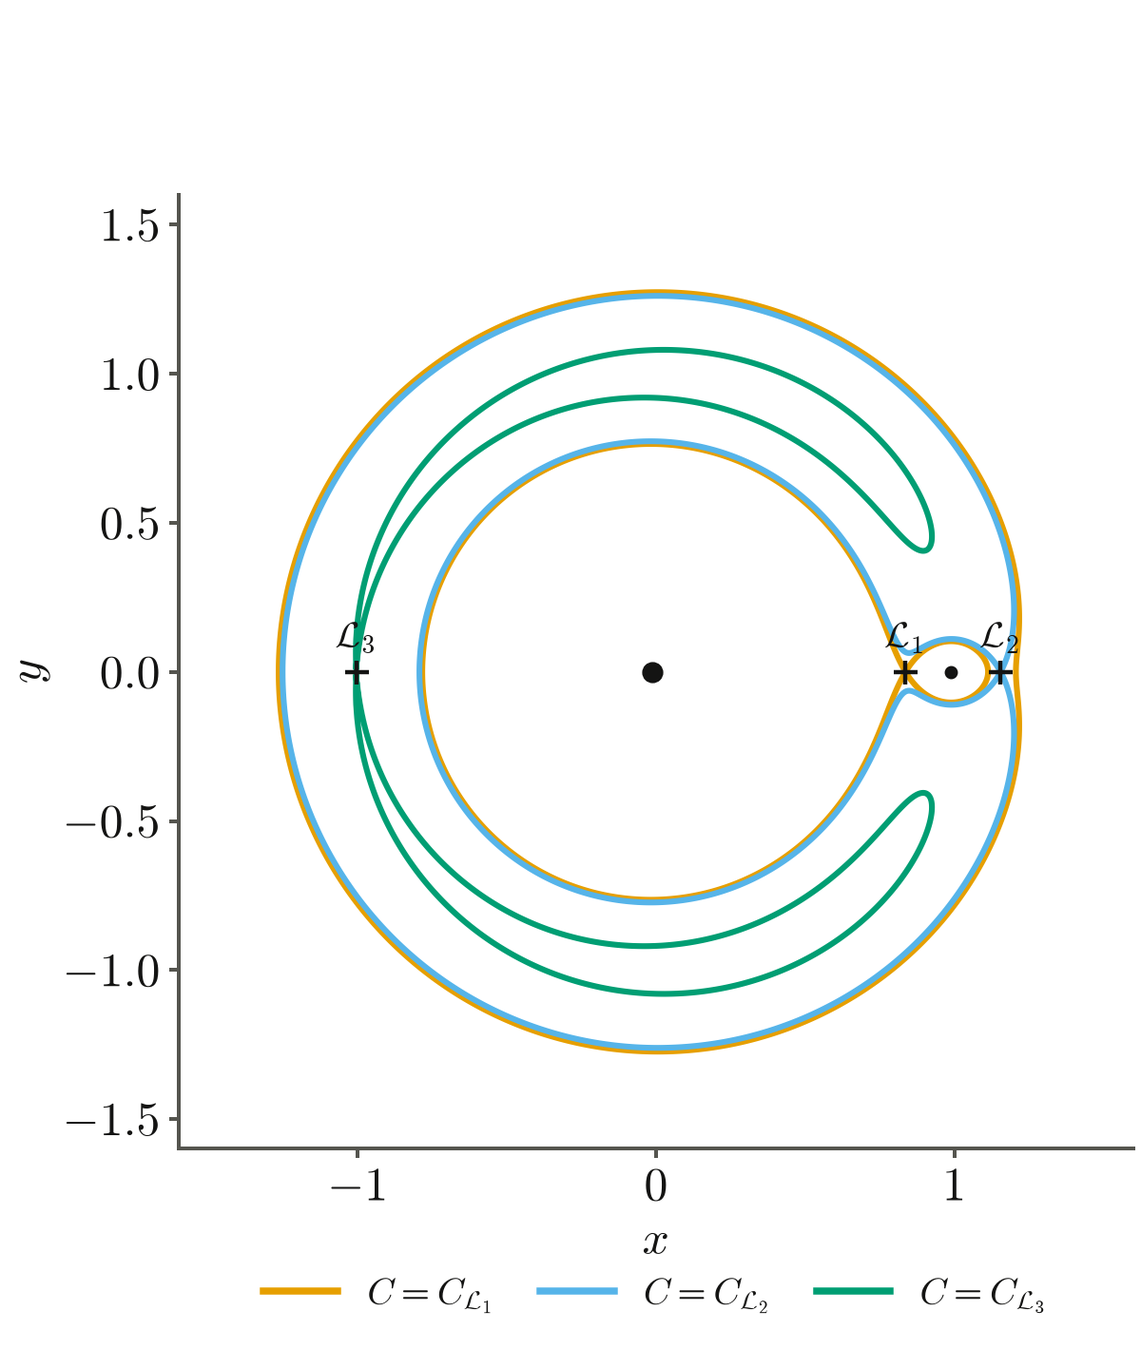
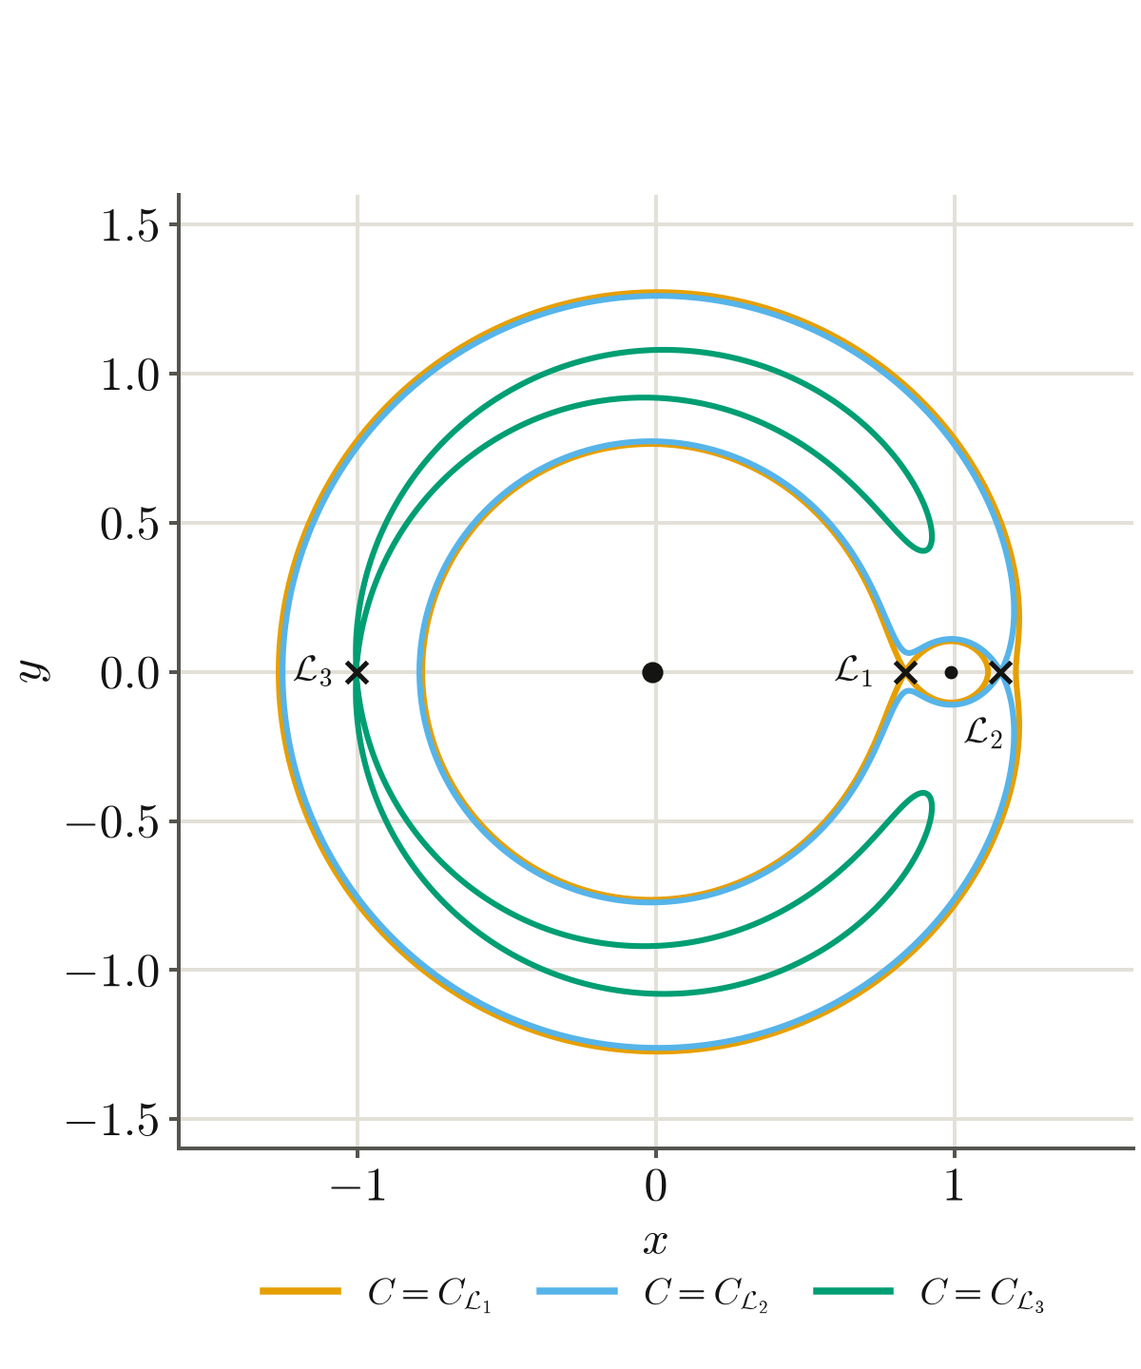
fix the demo deck content and the CI failures, and add blue and red tones and a surface camera carried across slides
Slide 4 writes the effective potential as U tilde, with the minus signs of the negative potential. The figure of slide 5 marks the Lagrange points with x, sets their labels off the zero-velocity curves, and has a grid. The list items of slides 5 and 9 are revealed one at a time. The summed surface of slide 8 is drawn in Magma_r without its darkest 30 %, after the MAE 541 plotly figure, so its top stays purple on a dark slide.

The plot tests run without reduced motion, the backdrop pixel tests allow for the software rasterizer of the Linux and Windows runners, the editor test no longer doubles the carriage returns of a Windows checkout and accepts a step in the hash, and the macOS runners draw WebGL in SwiftShader.

From the bifurcation talk, data-tone takes blue and red with the tokens --blue and --red, and a surface takes the camera of a matching surface on the slide before.

diff --git a/theme/beeson.js b/theme/beeson.js
@@ -2695,7 +2695,8 @@
   // src/surfaces.ts
   var RAMPS = {
     blues: ["#f7fbff", "#deebf7", "#c6dbef", "#9ecae1", "#6baed6", "#4292c6", "#2171b5", "#08519c", "#08306b"],
-    reds: ["#fff5f0", "#fee0d2", "#fcbba1", "#fc9272", "#fb6a4a", "#ef3b2c", "#cb181d", "#a50f15", "#67000d"]
+    reds: ["#fff5f0", "#fee0d2", "#fcbba1", "#fc9272", "#fb6a4a", "#ef3b2c", "#cb181d", "#a50f15", "#67000d"],
+    magma_r: ["#fcfdbf", "#fdda9c", "#feb67c", "#fc9065", "#f56b5c", "#e24d66", "#c43c75", "#a3307e", "#832681", "#641a80"]
   };
   var num2 = (value, fallback) => value !== void 0 && value.trim() !== "" && Number.isFinite(Number(value)) ? Number(value) : fallback;
   function effectivePotential(mu) {
@@ -2732,6 +2733,7 @@
   }
   var GRAVITATIONAL = { ramp: "blues", range: [-3, -1.5] };
   var CENTRIFUGAL = { ramp: "reds", range: [-3, -1.5] };
+  var EFFECTIVE = { ramp: "magma_r", range: [-3, -1.5] };
   var BOWL_LIFT = 4;
   var FUNCTIONS = {
     // the effective potential of the CR3BP at data-mu, assembled from its wells and its bowl, with the
@@ -2752,7 +2754,7 @@
         floor: -3.2,
         zscale: 1,
         layers: { flat: () => 0, wells, bowl, sum },
-        tones: { flat: GRAVITATIONAL, wells: GRAVITATIONAL, bowl: CENTRIFUGAL, sum: { ramp: "theme" } },
+        tones: { flat: GRAVITATIONAL, wells: GRAVITATIONAL, bowl: CENTRIFUGAL, sum: EFFECTIVE },
         marks,
         initial: "flat",
         stages: {
@@ -3629,6 +3631,12 @@ void main() {
         s.tone = 1;
       }
     }
+    /** Takes the azimuth, the elevation, and the pause after a drag of the camera of other. */
+    follow(other) {
+      this.azimuth = other.azimuth;
+      this.elevation = other.elevation;
+      this.resume = other.resume;
+    }
     /** Starts the turning of the camera and the animation of a change of stage, while the slide is shown. */
     start() {
       this.active = true;
@@ -3664,6 +3672,7 @@ void main() {
   }
 
   // src/steps.ts
+  var TONES2 = ["accent", "violet", "blue", "red"];
   function resolve(steps, current) {
     const indices = [...new Set(steps.map((s) => s.index))].sort((a, b) => a - b);
     const lit = /* @__PURE__ */ new Map();
@@ -3710,7 +3719,7 @@ void main() {
         visible: f.classList.contains("visible"),
         keep: keep === null ? null : keep.trim() === "" ? "next" : Number(keep),
         highlight: words2(f.dataset.highlight),
-        tone: f.dataset.tone === "violet" ? "violet" : "accent",
+        tone: TONES2.find((t) => t !== "accent" && t === f.dataset.tone) ?? "accent",
         holds: names.filter((name) => f.matches(select2(name)) || f.querySelector(select2(name)))
       };
     });
@@ -3721,8 +3730,7 @@ void main() {
     for (const name of names) for (const el of slide.querySelectorAll(select2(name))) tones.set(el, lit.get(name) ?? tones.get(el));
     for (const [el, tone] of tones) {
       el.classList.add("hl-target");
-      el.classList.toggle("hl-accent", tone === "accent");
-      el.classList.toggle("hl-violet", tone === "violet");
+      for (const t of TONES2) el.classList.toggle(`hl-${t}`, tone === t);
     }
   }
   function applyAll(root2) {
@@ -4004,7 +4012,13 @@ void main() {
       if (!still2()) {
         for (const o of within(ev.previousSlide)) if (!ev.currentSlide.contains(o.el)) o.reset();
       }
-      for (const s of surfacesOf(ev.previousSlide)) s.stop();
+      const before = surfacesOf(ev.previousSlide);
+      for (const s of before) s.stop();
+      const key = (s) => JSON.stringify(Object.entries(s.el.dataset).filter(([k]) => k !== "stage").sort());
+      for (const s of surfacesOf(ev.currentSlide)) {
+        const from = before.find((b) => key(b) === key(s));
+        if (from) s.follow(from);
+      }
       for (const p of plotsIn(ev.previousSlide)) if (!ev.currentSlide.contains(p.el)) p.leave();
       show(ev.currentSlide);
     });

diff --git a/index.html b/index.html
@@ -66,8 +66,8 @@ try {
 <section>
   <h2>Equations are first class citizens</h2>
   <p>You can type LaTeX in equation boxes. And you can color elements in your equations.<br><br>For instance, the dynamics in the synodic frame of the CR3BP can be expressed as </p>
-  <div class="math fragment" data-fragment-index="1" data-keep>\[\ddot x - \class{coriolis}{2\dot y} = \frac{\partial \class{potential}{U}}{\partial x},\qquad \ddot y + \class{coriolis}{2\dot x} = \frac{\partial \class{potential}{U}}{\partial y},\]</div>
-  <p class="fragment" data-fragment-index="2">where \(U\) is the effective potential.</p>
+  <div class="math fragment" data-fragment-index="1" data-keep>\[\ddot x - \class{coriolis}{2\dot y} = -\frac{\partial \class{potential}{\tilde U}}{\partial x},\qquad \ddot y + \class{coriolis}{2\dot x} = -\frac{\partial \class{potential}{\tilde U}}{\partial y},\]</div>
+  <p class="fragment" data-fragment-index="2">where \(\tilde U\) is the effective potential.</p>
   <p class="fragment" data-fragment-index="3" data-highlight="coriolis">The <span class="coriolis">Coriolis terms</span> couple \(x\) and \(y\).</p>
   <p class="fragment" data-fragment-index="4" data-highlight="potential" data-tone="violet">The <span class="potential">effective potential</span> gives the dynamics.</p>
   <aside class="notes">The display is held at full opacity through the next step with data-keep, and while a symbol in it is colored at a later step. The Coriolis terms are colored orange, the tone of motion, and the potential violet, the tone of structure.</aside>
@@ -77,9 +77,9 @@ try {
   <h2>Figures are first class citizens, too</h2>
   <p>Export your matplotlib figure with the styles of the template. It will show frameless.</p>
   <ul style="translate: 0px 20px">
-    <li>Dark and light mode: export one file per mode, mark them <code>for-dark</code> and <code>for-light</code>.</li>
-    <li>You might have noticed a toggle on the top right: try clicking it on this slide.</li>
-    <li>You should give black-on-white plots the class <code>invert</code> to invert them in dark mode.</li>
+    <li class="fragment" data-fragment-index="1">Dark and light mode: export one file per mode, mark them <code>for-dark</code> and <code>for-light</code>.</li>
+    <li class="fragment" data-fragment-index="2">You might have noticed a toggle on the top right: try clicking it on this slide.</li>
+    <li class="fragment" data-fragment-index="3">You should give black-on-white plots the class <code>invert</code> to invert them in dark mode.</li>
   </ul>
   <figure class="zone">
     <img class="for-dark" src="demo/figure-dark.png" alt="Zero-velocity curves of the Earth–Moon system, dark version">
@@ -142,9 +142,9 @@ try {
   <h2>Embedding TyCHO scenes</h2>
   <p>Create the scene in TyCHO, then embed it as an inline viewer in your slide. Interactively.</p>
   <ul>
-    <li>The <code>theme</code> attribute controls dark/light mode. Switch the top right toggle!</li>
-    <li>The UI elements are active only while the TyCHO in focus. Click away to unfocus.</li>
-    <li>From pytycho, call <code>build_embed</code> to return the HTML element. Then paste it in.<br>It's really that simple.</li>
+    <li class="fragment" data-fragment-index="1">The <code>theme</code> attribute controls dark/light mode. Switch the top right toggle!</li>
+    <li class="fragment" data-fragment-index="2">The UI elements are active only while the TyCHO in focus. Click away to unfocus.</li>
+    <li class="fragment" data-fragment-index="3">From pytycho, call <code>build_embed</code> to return the HTML element. Then paste it in.<br>It's really that simple.</li>
   </ul>
   <!-- tycho-viewer start, written by demo/tycho-scene.py -->
 <tycho-viewer theme="dark" kiosk class="zone">

diff --git a/src/surfaces.ts b/src/surfaces.ts
@@ -34,12 +34,14 @@ export type Tone = { ramp: string; range?: [number, number] };
 /**
  * The fixed color ramps, as sRGB colors at even steps from the lowest height of a range to the
  * highest. blues and reds are the sequential ColorBrewer scales Blues and Reds, as plotly 7 resolves
- * colorscale='Blues' and colorscale='Reds' of a go.Surface. The ramp theme is made from the custom
- * properties of the theme in surface.ts.
+ * colorscale='Blues' and 'Reds' of a go.Surface. magma_r is the Magma of matplotlib from 0.3 to 1,
+ * reversed, i.e. Magma_r without its darkest 30 %, hence the highest heights stay purple on a dark
+ * slide. The ramp theme is made from the custom properties of the theme in surface.ts.
  */
 export const RAMPS: Record<string, string[]> = {
   blues: ['#f7fbff', '#deebf7', '#c6dbef', '#9ecae1', '#6baed6', '#4292c6', '#2171b5', '#08519c', '#08306b'],
   reds: ['#fff5f0', '#fee0d2', '#fcbba1', '#fc9272', '#fb6a4a', '#ef3b2c', '#cb181d', '#a50f15', '#67000d'],
+  magma_r: ['#fcfdbf', '#fdda9c', '#feb67c', '#fc9065', '#f56b5c', '#e24d66', '#c43c75', '#a3307e', '#832681', '#641a80'],
 };
 
 /** The data attributes of the element and of the fragment that sets the stage, by their dataset keys. */
@@ -117,11 +119,12 @@ export function levelCurves(g: Float64Array, x: [number, number], y: [number, nu
   return isolines(d, nx, ny, x[0], y[0], (x[1] - x[0]) / nx, (y[1] - y[0]) / ny, true);
 }
 
-// the ramps and ranges of the gravitational and the centrifugal parts in plot_potentials_decomposed.py
-// of Claudio Vestini's MAE 541 project, a plotly figure of the three surfaces at mu = 0.05 with
-// cmin = -3 and cmax = -1.5
+// the ramps and ranges of the gravitational and the centrifugal parts and of their sum in
+// plot_potentials_decomposed.py of Claudio Vestini's MAE 541 project, a plotly figure of the three
+// surfaces at mu = 0.05 with cmin = -3 and cmax = -1.5
 const GRAVITATIONAL: Tone = { ramp: 'blues', range: [-3, -1.5] };
 const CENTRIFUGAL: Tone = { ramp: 'reds', range: [-3, -1.5] };
+const EFFECTIVE: Tone = { ramp: 'magma_r', range: [-3, -1.5] };
 // the height by which the bowl is raised above the wells at the stage bowl, nondimensional
 const BOWL_LIFT = 4;
 
@@ -144,7 +147,7 @@ const FUNCTIONS = {
       floor: -3.2,
       zscale: 1,
       layers: { flat: () => 0, wells, bowl, sum },
-      tones: { flat: GRAVITATIONAL, wells: GRAVITATIONAL, bowl: CENTRIFUGAL, sum: { ramp: 'theme' } },
+      tones: { flat: GRAVITATIONAL, wells: GRAVITATIONAL, bowl: CENTRIFUGAL, sum: EFFECTIVE },
       marks,
       initial: 'flat',
       stages: {

diff --git a/src/steps.ts b/src/steps.ts
@@ -3,13 +3,14 @@
 // step of a slide that dims a fragment, hence the last fragment is first shown alone, and every
 // fragment is restored at the added step. a fragment with data-highlight
 // colors the elements of the classes it names once it is shown, e.g. a symbol set with
-// \class{name}{...} in MathJax, in orange or, with data-tone="violet", in violet. a fragment with
+// \class{name}{...} in MathJax, in orange or, with data-tone, in violet, blue, or red. a fragment with
 // data-keep is held at full opacity through the next step, or through the step of its value, and a
 // fragment is held as well while the current step highlights a class in it
 
 import type { Deck } from './reveal.d.ts';
 
-export type Tone = 'accent' | 'violet';
+export type Tone = 'accent' | 'violet' | 'blue' | 'red';
+const TONES: Tone[] = ['accent', 'violet', 'blue', 'red'];
 
 /** A fragment of a slide, as read by resolve. */
 export type Step = {
@@ -94,7 +95,7 @@ export function applySteps(slide: Element): void {
       visible: f.classList.contains('visible'),
       keep: keep === null ? null : keep.trim() === '' ? 'next' : Number(keep),
       highlight: words(f.dataset.highlight),
-      tone: f.dataset.tone === 'violet' ? 'violet' : 'accent',
+      tone: TONES.find((t) => t !== 'accent' && t === f.dataset.tone) ?? 'accent',
       holds: names.filter((name) => f.matches(select(name)) || f.querySelector(select(name))),
     };
   });
@@ -105,8 +106,7 @@ export function applySteps(slide: Element): void {
   for (const name of names) for (const el of slide.querySelectorAll(select(name))) tones.set(el, lit.get(name) ?? tones.get(el));
   for (const [el, tone] of tones) {
     el.classList.add('hl-target');
-    el.classList.toggle('hl-accent', tone === 'accent');
-    el.classList.toggle('hl-violet', tone === 'violet');
+    for (const t of TONES) el.classList.toggle(`hl-${t}`, tone === t);
   }
 }
 

diff --git a/theme/beeson.css b/theme/beeson.css
@@ -12,6 +12,9 @@ html[data-theme="dark"] {
   --line: #232320;
   --accent: #f08050;
   --violet: #c94fe6;
+  /* the tones blue and red of a highlight, e.g. of the terms drawn on a surface in Blues and Reds */
+  --blue: #4f9df5;
+  --red: #ff4d4d;
   --stroke: rgba(242, 242, 239, 0.34);
   --body: rgba(242, 242, 239, 0.55);
   /* the palette of a backdrop drawn from a file, in pairs: a value of data-strands-color takes
@@ -40,6 +43,8 @@ html[data-theme="light"] {
   --line: #e3e0d8;
   --accent: #c8571e;
   --violet: #8a2be2;
+  --blue: #1f5fd0;
+  --red: #c41e1e;
   --stroke: rgba(20, 20, 19, 0.3);
   --body: rgba(20, 20, 19, 0.5);
   --strand-1: #8a2be2;
@@ -417,6 +422,8 @@ html[data-theme="dark"] .reveal .invert { filter: invert(1) hue-rotate(180deg); 
 .reveal .hl-target { transition: color 400ms ease-out; }
 .reveal .hl-accent { color: var(--accent) !important; }
 .reveal .hl-violet { color: var(--violet) !important; }
+.reveal .hl-blue { color: var(--blue) !important; }
+.reveal .hl-red { color: var(--red) !important; }
 
 /* ---- the slide change: a 400 ms fade ---- */
 .reveal.fade .slides section:not([data-transition]),

diff --git a/src/main.ts b/src/main.ts
@@ -148,7 +148,15 @@ async function start(options: Partial<RevealOptions> = {}): Promise<void> {
   deck.on('slidechanged', (event) => {
     const ev = event as SlideEvent;
     if (!still()) for (const o of within(ev.previousSlide)) if (!ev.currentSlide.contains(o.el)) o.reset();
-    for (const s of surfacesOf(ev.previousSlide)) s.stop();
+    const before = surfacesOf(ev.previousSlide);
+    for (const s of before) s.stop();
+    // a surface whose data attributes other than data-stage match those of a surface on the slide
+    // before takes its camera, so that the turn of the camera continues across the slide change
+    const key = (s: { el: HTMLElement }) => JSON.stringify(Object.entries(s.el.dataset).filter(([k]) => k !== 'stage').sort());
+    for (const s of surfacesOf(ev.currentSlide)) {
+      const from = before.find((b) => key(b) === key(s));
+      if (from) s.follow(from);
+    }
     for (const p of plotsIn(ev.previousSlide)) if (!ev.currentSlide.contains(p.el)) p.leave();
     show(ev.currentSlide);
   });

diff --git a/src/surface.ts b/src/surface.ts
@@ -979,6 +979,13 @@ export class Surface {
     }
   }
 
+  /** Takes the azimuth, the elevation, and the pause after a drag of the camera of other. */
+  follow(other: Surface): void {
+    this.azimuth = other.azimuth;
+    this.elevation = other.elevation;
+    this.resume = other.resume;
+  }
+
   /** Starts the turning of the camera and the animation of a change of stage, while the slide is shown. */
   start(): void {
     this.active = true;

diff --git a/demo/figures.py b/demo/figures.py
@@ -52,10 +52,15 @@ def zvc(style, out):
     text = plt.rcParams["text.color"]
     ax.plot([-mu], [0], "o", color=text, ms=7)
     ax.plot([1 - mu], [0], "o", color=text, ms=4)
+    # each label is set in a gap between the curves next to its point. L1 is inside the realm of the
+    # Earth, L2 under the loop around the Moon, and L3 between its curve and the outer curves of C_L1 and C_L2
+    offsets = dict(L1=(-11, 0, "right", "center"), L2=(2, -17, "right", "top"), L3=(-8, 0, "right", "center"))
     for name, v in dict(L1=L1, L2=L2, L3=L3).items():
-        ax.plot([v], [0], "+", color=text, ms=9, mew=1.6)
-        ax.annotate(f"$\\mathcal{{L}}_{name[1]}$", (v, 0), xytext=(0, 9), textcoords="offset points",
-                    ha="center", fontsize=14)
+        ax.plot([v], [0], "x", color=text, ms=8, mew=1.8)
+        dx, dy, ha, va = offsets[name]
+        ax.annotate(f"$\\mathcal{{L}}_{name[1]}$", (v, 0), xytext=(dx, dy), textcoords="offset points",
+                    ha=ha, va=va, fontsize=14)
+    ax.grid(True)
     ax.set_aspect("equal")
     ax.set_xlim(-1.6, 1.6)
     ax.set_ylim(-1.6, 1.6)

diff --git a/AGENTS.md b/AGENTS.md
@@ -19,7 +19,7 @@ This repository is the slide template of the Beeson group. The reveal.js theme `
 - Use one `h2` per slide, and an `h1` on a title slide. Keep the text column under 66 characters per line, and prefer one paragraph and a few list items to many items.
 - Give an image for each mode with `for-dark` and `for-light`, a white raster figure the class `paper`, and a black-on-white line plot the class `invert`.
 - Write math in MathJax delimiters, `\(` `\)` inline and `\[` `\]` display, inside a `div.math` for a display, and put shared macros into `theme/macros.js`.
-- Reveal a display in four steps: the lead-in sentence, the display, the sentence in which it is explained, and a step in which a symbol is colored. Mark the symbol with `\class{name}{...}`, and give the later fragment `data-highlight="name"`, so that the class is colored orange once the fragment is shown, or violet with `data-tone="violet"`. Give the display `data-keep` to hold it at full opacity through the next step, or `data-keep="N"` to hold it through the step of index N.
+- Reveal a display in four steps: the lead-in sentence, the display, the sentence in which it is explained, and a step in which a symbol is colored. Mark the symbol with `\class{name}{...}`, and give the later fragment `data-highlight="name"`, so that the class is colored orange once the fragment is shown, or violet, blue, or red with `data-tone` set to `violet`, `blue`, or `red`. Give the display `data-keep` to hold it at full opacity through the next step, or `data-keep="N"` to hold it through the step of index N.
 - Put a plot in a `zone` or a `plate`, with its JSON block next to it. Reveal its panels and marks with `data-plot-show` and switch its tab with `data-plot-tab`, both on fragments of its slide.
 - Put code in a `pre` with a `code` of the class of its language, e.g. `language-python`, and load `theme/vendor/reveal/highlight.js` after `notes.js`. To step through it, write its groups of lines in `data-line-numbers` on the `code`, separated by bars.
 - Put speaker notes in an `aside.notes`.
@@ -46,7 +46,7 @@ npm run pptx                                # slides.pptx, one click per step, w
 - Everything loaded in a deck is vendored under `theme/vendor/` with its license, and nothing is fetched from the network at show time.
 - The orbit engine is a port of `orbits.ts` of claudiovestini.com (MIT). Do not derive anything in this repository from DyLAN code.
 - The Princeton marks and the group logo in `brand/` are outside the MIT license, see `brand/NOTICE.md`.
-- Colors are the custom properties in `theme/beeson.css`: `--bg`, `--text`, `--subtle`, `--muted`, `--line`, `--accent`, `--violet`, and `--data-1` to `--data-8`. The typeface is Latin Modern Roman at 22, 28, 36, 48, 64, and 96 px on the 1920 by 1080 design size, and math is set in the TeX font of MathJax, i.e. Computer Modern, as in a LaTeX document. Body text is 48 px, i.e. the 24 points asked for by the AIAA on a slide 7.5 in high, captions and tables are 36 px, and a code box is 22 px. Orange is used for motion and progress, and violet for structure.
+- Colors are the custom properties in `theme/beeson.css`: `--bg`, `--text`, `--subtle`, `--muted`, `--line`, `--accent`, `--violet`, `--blue`, `--red`, and `--data-1` to `--data-8`. The typeface is Latin Modern Roman at 22, 28, 36, 48, 64, and 96 px on the 1920 by 1080 design size, and math is set in the TeX font of MathJax, i.e. Computer Modern, as in a LaTeX document. Body text is 48 px, i.e. the 24 points asked for by the AIAA on a slide 7.5 in high, captions and tables are 36 px, and a code box is 22 px. Orange is used for motion and progress, and violet for structure.
 - Write a talk over the demo deck in `index.html`, and do not copy `theme/` or `brand/` into another folder, since `index.html` is the default deck of `npm run check`, `npm run pdf`, and `npm run pptx`.
 - Read a PowerPoint file from its XML, and do not script PowerPoint, Keynote, or any other desktop app.
 

diff --git a/README.md b/README.md
@@ -92,7 +92,7 @@ A `surface` is the graph of a function $z = f(x, y)$ over a rectangle, drawn in 
 
 | Function | Attributes | Stages |
 |---|---|---|
-| `effective-potential` | `data-mu`, the mass ratio $\mu$ of the circular restricted three-body problem, 0.05 by default, and `data-C` on the fragment of the cut, the Jacobi constant $C$, that of L1 by default | `wells` in Blues, `bowl` with the centrifugal dome in Reds above the wells, `sum` with the two merged, `extrema` with L1 to L5 marked, and `cut` with the plane at $-C/2$ and the zero-velocity curve |
+| `effective-potential` | `data-mu`, the mass ratio $\mu$ of the circular restricted three-body problem, 0.05 by default, and `data-C` on the fragment of the cut, the Jacobi constant $C$, that of L1 by default | `wells` in Blues, `bowl` with the centrifugal dome in Reds above the wells, `sum` with the two merged in Magma_r (Magma reversed) without its darkest 30 %, `extrema` with L1 to L5 marked, and `cut` with the plane at $-C/2$ and the zero-velocity curve |
 
 The camera is set with `data-azimuth` and `data-elevation` in degrees, `data-turn` in seconds per turn (0 for a still camera), and `data-zoom`, and the heights are scaled with `data-zscale`. With `?still`, a stage is drawn at once and the camera is not turned. In a PDF and in PowerPoint, each step is printed with a still of its stage.
 
@@ -123,7 +123,7 @@ To embed a scene of tycho, the Typed Celestial HTML Observer, call `build_embed`
 
 ## Stepped math
 
-A display is revealed in four steps: the lead-in sentence, the display, the sentence in which it is explained, and a step in which a symbol of the display is colored. Mark the symbol in the TeX with `\class{name}{...}`, and give a later fragment the attribute `data-highlight="name"`. Once this fragment is shown, the symbols of the class are drawn in orange, or in violet with `data-tone="violet"`. Any element of the slide with the class `name` is colored as well, e.g. a `span` around the words that name the symbol. Use orange for motion and violet for structure, as in the rest of the theme, and separate several classes with spaces.
+A display is revealed in four steps: the lead-in sentence, the display, the sentence in which it is explained, and a step in which a symbol of the display is colored. Mark the symbol in the TeX with `\class{name}{...}`, and give a later fragment the attribute `data-highlight="name"`. Once this fragment is shown, the symbols of the class are drawn in orange, or in violet, blue, or red with `data-tone` set to `violet`, `blue`, or `red`. Any element of the slide with the class `name` is colored as well, e.g. a `span` around the words that name the symbol. Use orange for motion and violet for structure, as in the rest of the theme, and blue and red for the terms drawn in Blues and Reds on a surface, and separate several classes with spaces.
 
 An earlier fragment is dimmed to 45 percent once a later one is shown, and every fragment is restored at the step added after the last one. Give the display the attribute `data-keep` to hold it at full opacity through the next step, or `data-keep="4"` to hold it through the step of index 4. A display is also held at full opacity while a class in it is colored at the current step. The demo slide "Stepping through the equations" is an example of every step.
 
